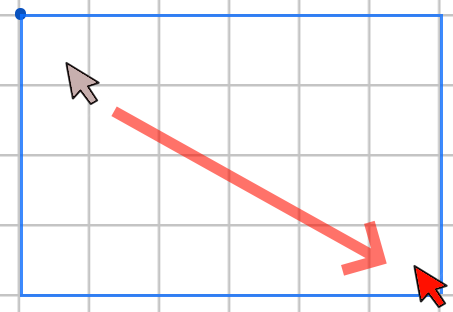
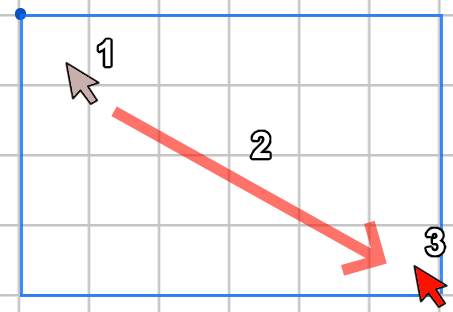
[Docs][ReKarel] Click drag image update

Changed region(s): [[0.5254, 0.4038, 0.6181, 0.5192], [0.9272, 0.7212, 0.989, 0.8365], [0.1854, 0.1154, 0.2472, 0.2308]]

diff --git a/webapp/docs/rekarel/migrar.html b/webapp/docs/rekarel/migrar.html
@@ -227,6 +227,7 @@
 
 <div class="figure">
     <img src="../../img/click-arrastra.png" alt="" class="figure-img img-fluid rounded">
+    <figcaption class="figure-caption">1- Presionar Clic<br>2- Arrastra<br>3- Soltar clic</figcaption>
 </div>
 
 

diff --git a/html/docs/rekarel/migrar.html b/html/docs/rekarel/migrar.html
@@ -27,6 +27,7 @@
 
 <div class="figure">
     <img src="../../img/click-arrastra.png" alt="" class="figure-img img-fluid rounded">
+    <figcaption class="figure-caption">1- Presionar Clic<br>2- Arrastra<br>3- Soltar clic</figcaption>
 </div>
 
 
